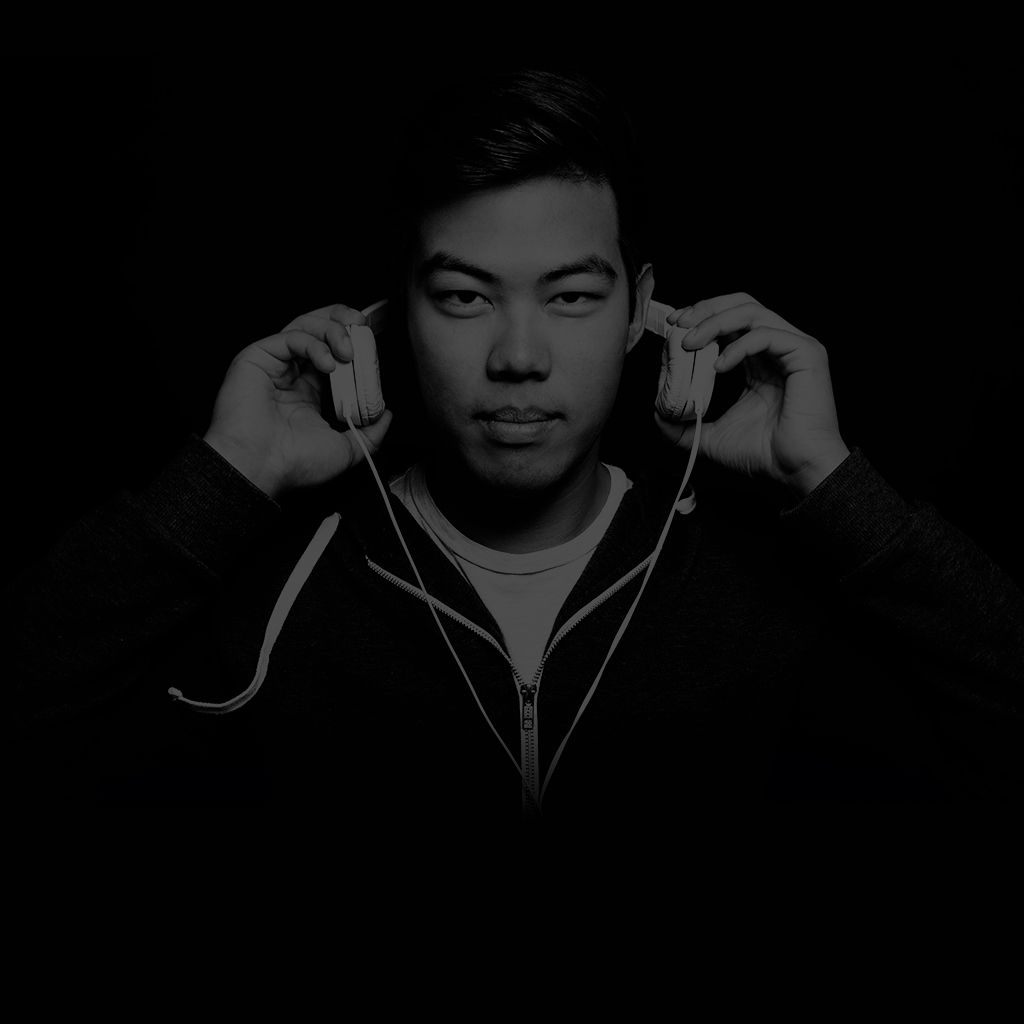
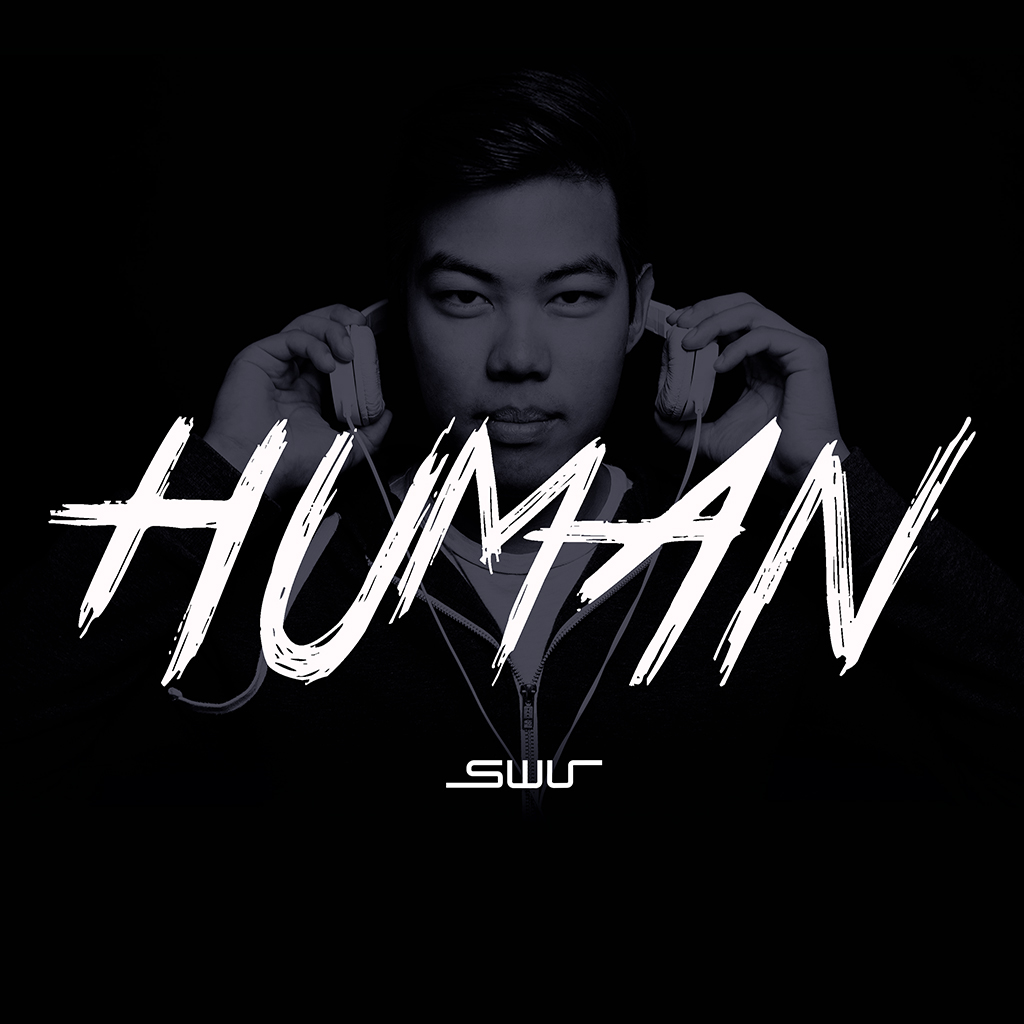
everything

Changed region(s): [[0.0312, 0.4062, 0.9688, 0.6875], [0.4375, 0.7188, 0.5938, 0.7812]]

diff --git a/media.html b/media.html
@@ -102,32 +102,20 @@
             <a href="#portfolioModal14" class="portfolio-link" data-toggle="modal">
                 <div class="pic4" ><img width="100%" src="pics/small/swu-human-cover.jpg"></div>
             </a>
-            <a href="#portfolioModal15" class="portfolio-link" data-toggle="modal">
-                <div class="pic4" ><img width="100%" src="pics/small/swu-human-cover1.jpg"></div>
-            </a>
             <a href="#portfolioModal16" class="portfolio-link" data-toggle="modal">
                 <div class="pic4" ><img width="100%" src="pics/small/swu-human-cover2.jpg"></div>
+            </a>
+            <a href="#portfolioModal15" class="portfolio-link" data-toggle="modal">
+                <div class="pic4" ><img width="100%" src="pics/small/swu-human-cover1.jpg"></div>
             </a>
             <a href="#portfolioModal17" class="portfolio-link" data-toggle="modal">
                 <div class="pic4" ><img width="100%" src="pics/small/swu-human-cover3.jpg"></div>
             </a>
-            <a href="#portfolioModal5" class="portfolio-link" data-toggle="modal">
-                <div class="pic4" ><img width="100%" src="pics/small/shirt-tie.jpg"></div>
+            <a href="#portfolioModal22" class="portfolio-link" data-toggle="modal">
+                <div class="pic3" ><img width="100%" src="pics/small/guitar.jpg"></div>
             </a>
-            <a href="#portfolioModal6" class="portfolio-link" data-toggle="modal">
-                <div class="pic4" ><img width="100%" src="pics/small/working.png"></div>
-            </a>
-            <a href="#portfolioModal12" class="portfolio-link" data-toggle="modal">
-                <div class="pic4" ><img width="100%" src="pics/small/confident.jpg"></div>
-            </a>   
-            <a href="#portfolioModal21" class="portfolio-link" data-toggle="modal">
-                <div class="pic4" ><img width="100%" src="pics/small/singing.png"></div>
-            </a>   
-            <a href="#portfolioModal7" class="portfolio-link" data-toggle="modal">
-                <div class="pic3" ><img width="100%" src="pics/small/scsday.jpg"></div>
-            </a>
-            <a href="#portfolioModal10" class="portfolio-link" data-toggle="modal">
-                <div class="pic3" ><img width="100%" src="pics/small/sexy.jpg"></div>
+            <a href="#portfolioModal25" class="portfolio-link" data-toggle="modal">
+                <div class="pic3" ><img width="100%" src="pics/small/tongue.jpg"></div>
             </a>  
             <a href="#portfolioModal20" class="portfolio-link" data-toggle="modal">
                 <div class="pic3" ><img width="100%" src="pics/small/red9.jpg"></div>
@@ -138,12 +126,33 @@
             <a href="#portfolioModal2" class="portfolio-link" data-toggle="modal">
                 <div class="pic4" ><img width="100%" src="pics/small/wine-cards-oranges.jpg"></div>
             </a>
-            <a href="#portfolioModal13" class="portfolio-link" data-toggle="modal">
-                <div class="pic4" ><img width="100%" src="pics/small/cocky.jpg"></div>
+            <a href="#portfolioModal10" class="portfolio-link" data-toggle="modal">
+                <div class="pic4" ><img width="100%" src="pics/small/sexy.jpg"></div>
             </a>
+            <a href="#portfolioModal24" class="portfolio-link" data-toggle="modal">
+                <div class="pic4" ><img width="100%" src="pics/small/studio-sing.jpg"></div>
+            </a>
+            <a href="#portfolioModal7" class="portfolio-link" data-toggle="modal">
+                <div class="pic3" ><img width="100%" src="pics/small/scsday.jpg"></div>
+            </a>
+            <a href="#portfolioModal23" class="portfolio-link" data-toggle="modal">
+                <div class="pic3" ><img width="100%" src="pics/small/hoodie-looking-out.jpg"></div>
+            </a>  
             <a href="#portfolioModal3" class="portfolio-link" data-toggle="modal">
-                <div class="pic4" ><img width="100%" src="pics/small/goofy.jpg"></div>
+                <div class="pic3" ><img width="100%" src="pics/small/goofy.jpg"></div>
+            </a> 
+            <a href="#portfolioModal5" class="portfolio-link" data-toggle="modal">
+                <div class="pic4" ><img width="100%" src="pics/small/shirt-tie.jpg"></div>
             </a>
+            <a href="#portfolioModal6" class="portfolio-link" data-toggle="modal">
+                <div class="pic4" ><img width="100%" src="pics/small/working.png"></div>
+            </a>
+            <a href="#portfolioModal12" class="portfolio-link" data-toggle="modal">
+                <div class="pic4" ><img width="100%" src="pics/small/blackt-confident.jpg"></div>
+            </a>   
+            <a href="#portfolioModal21" class="portfolio-link" data-toggle="modal">
+                <div class="pic4" ><img width="100%" src="pics/small/singing.png"></div>
+            </a>   
         </div>
     </div>
 
@@ -270,7 +279,7 @@
                 </div>
             </div>
         <div class="container big-pic text-center" data-dismiss="modal">
-            <img src="pics/confident.jpg" class="img-responsive img-centered" alt="">
+            <img src="pics/blackt-confident.jpg" class="img-responsive img-centered" alt="">
         </div>
     </div>
 
@@ -382,6 +391,54 @@
         </div>
     </div>
 
+    <div class="portfolio-modal modal fade" id="portfolioModal22" aria-hidden="true" data-dismiss="modal">
+            <div class="close-modal" data-dismiss="modal">
+                <div class="lr">
+                    <div class="rl">
+                    </div>
+                </div>
+            </div>
+        <div class="container big-pic text-center" data-dismiss="modal">
+            <img src="pics/guitar.jpg" class="img-responsive img-centered" alt="">
+        </div>
+    </div>
+
+    <div class="portfolio-modal modal fade" id="portfolioModal23" aria-hidden="true" data-dismiss="modal">
+            <div class="close-modal" data-dismiss="modal">
+                <div class="lr">
+                    <div class="rl">
+                    </div>
+                </div>
+            </div>
+        <div class="container big-pic text-center" data-dismiss="modal">
+            <img src="pics/hoodie-looking-out.jpg" class="img-responsive img-centered" alt="">
+        </div>
+    </div>
+
+    <div class="portfolio-modal modal fade" id="portfolioModal24" aria-hidden="true" data-dismiss="modal">
+            <div class="close-modal" data-dismiss="modal">
+                <div class="lr">
+                    <div class="rl">
+                    </div>
+                </div>
+            </div>
+        <div class="container big-pic text-center" data-dismiss="modal">
+            <img src="pics/studio-sing.jpg" class="img-responsive img-centered" alt="">
+        </div>
+    </div>
+
+    <div class="portfolio-modal modal fade" id="portfolioModal25" aria-hidden="true" data-dismiss="modal">
+            <div class="close-modal" data-dismiss="modal">
+                <div class="lr">
+                    <div class="rl">
+                    </div>
+                </div>
+            </div>
+        <div class="container big-pic text-center" data-dismiss="modal">
+            <img src="pics/tongue.jpg" class="img-responsive img-centered" alt="">
+        </div>
+    </div>
+
     <footer>
         <div class="container">
             <div class="row">
@@ -391,19 +448,16 @@
                         <a target="_blank" title="follow me on facebook" href="https://www.facebook.com/Swuofficial"><img alt="follow me on facebook" src="./img/facebook-icon.png" border=0></a>
                         
                         <!-- SPOTIFY LINK -->
-                        <a target="_blank" title="follow me on spotify" href=""><img alt="follow me on spotify" src="./img/spotify-icon.png" border=0></a>
+                        <a target="_blank" title="follow me on spotify" href="https://open.spotify.com/artist/4wu4raoQC1pNjFL1Qp2fQi"><img alt="follow me on spotify" src="./img/spotify-icon.png" border=0></a>
 
                         <!-- ITUNES LINK -->
-                        <a target="_blank" title="follow me on itunes" href=""><img alt="follow me on itunes" src="./img/itunes-icon.png" border=0></a>
+                        <a target="_blank" title="follow me on itunes" href="https://itunes.apple.com/us/album/id1096677964?app=itunes"><img alt="follow me on itunes" src="./img/itunes-icon.png" border=0></a>
 
                         <!-- SOUNDCLOUD LINK -->
                         <a target="_blank" title="follow me on soundcloud" href="https://soundcloud.com/stephenwu"><img alt="follow me on soundcloud" src="./img/soundcloud-icon.png" border=0></a>
 
-                        <!-- AMAZON MUSIC LINK -->
-                        <a target="_blank" title="follow me on amazon music" href=""><img alt="follow me on amazon music" src="./img/amazon-icon.png" border=0></a>
-
                         <!-- GOOGLE PLAY LINK -->
-                        <a target="_blank" title="follow me on google play" href=""><img alt="follow me on google play" src="./img/googleplay-icon.png" border=0></a>
+                        <a target="_blank" title="follow me on google play" href="https://play.google.com/store/music/album/Swu_Human?id=Bvo7yiv6yhlxel7xkcbznczldbq&hl=en#details-reviews"><img alt="follow me on google play" src="./img/googleplay-icon.png" border=0></a>
 
                         <!-- YOUTUBE LINK -->
                         <a target="_blank" title="follow me on youtube" href="https://www.youtube.com/channel/UCEDwKwLOQK3diDgbZYNso3g"><img alt="follow me on youtube" src="./img/youtube-icon.png" border=0></a>

diff --git a/about.html b/about.html
@@ -100,9 +100,9 @@
                 <div class="col-md-6">
                     <img class="img-responsive img-border-left" src="img/slide-2.jpg" alt="">
                 </div>
-                    <p>Hailing from The Golden State - San Francisco, CA - comes Swu, one of the industry's most versatile recording artists and producers. Growing up and living all around the world, Swu embodies the creative and open-mindedness of different cultures. In his first EP Human, he hopes bring to life emotions from the best parts of our lives to remind us that we are all human. He has stated that "music is a rare gift that crosses all language barriers and is universally understood. Each song captures an emotion and a story, and each story is from a part of my life." </p>
-                    <p>Swu's music career started in the 4th grade, when he won a songwriting competition. He used notation software to write an electronic beat, and didn't even know he incorporated advanced techniques such as polyrhythms, sus7 chords, and stereo imaging. Since then, Swu has picked up a myriad of different instruments, from the baritone, to drums, to guitar, and to voice. These were the first stepping stones to a lifetime career in music.</p>
-                    <p>From his musical background and studying computer science at Carnegie Mellon, Swu is able to synthesize unique sounds and write avant garde chord and note progressions. He uses Nyquist to synthesize his own sounds, Carnegie Mellon's studio to record voice, and Logic Pro to put it all together. Throughout his musical career, he has been able to perform weekly sets at Iron Horse, a local bar and grill, perform in spring fairs, carnivals, and concert halls, and found an annual charity concert with the Boy Scouts of America. Now, he is focused on creating and producing his own music with the Carnegie Mellon School of Music, IMO, and independent artists.</p>
+                    <p>Hailing from The Golden State - San Francisco, CA - comes Swu, one of the industry's most versatile recording artists and producers. Growing up and living all around the world, Swu embodies the creative and open-mindedness of different cultures. In his first EP Human, he hopes bring to life emotions from the best parts of our lives to remind us that we are all human. He stated that "each song captures an emotion and a story from a part of my life. It doesn't matter what language you speak, what culture you're from, or what race you are - everyone can relate and share these stories"</p> 
+                    <p>Swu's music career started in the 4th grade, when he found his father’s old guitar in the attic. He played on the guitar for hours that day and instantly fell in love with music. Since then, Swu has picked up a myriad of different instruments, from baritone, to drums, to piano, and to vocals, and won several battle of the bands, songwriting competitions, and talent shows. These were the first stepping stones to a lifetime passion in music.</p>
+                    <p>From his musical background and studying computer science at Carnegie Mellon, Swu is able to synthesize unique sounds and write chord progressions. He uses Nyquist to synthesize sounds from scratch, Carnegie Mellon's studio to record vocals, and Logic Pro to put it all together. Throughout his musical career, he has been able to perform weekly sets at Iron Horse, a local bar and grill, perform at spring fairs, carnivals, and concert halls, and found an annual charity concert with the Boy Scouts of America. Now, he is focused on creating and producing his own music with the Carnegie Mellon School of Music, IMO, and independent artists.</p>
                 <div class="clearfix"></div>
             </div>
         </div>
@@ -119,19 +119,16 @@
                         <a target="_blank" title="follow me on facebook" href="https://www.facebook.com/Swuofficial"><img alt="follow me on facebook" src="./img/facebook-icon.png" border=0></a>
                         
                         <!-- SPOTIFY LINK -->
-                        <a target="_blank" title="follow me on spotify" href=""><img alt="follow me on spotify" src="./img/spotify-icon.png" border=0></a>
+                        <a target="_blank" title="follow me on spotify" href="https://open.spotify.com/artist/4wu4raoQC1pNjFL1Qp2fQi"><img alt="follow me on spotify" src="./img/spotify-icon.png" border=0></a>
 
                         <!-- ITUNES LINK -->
-                        <a target="_blank" title="follow me on itunes" href=""><img alt="follow me on itunes" src="./img/itunes-icon.png" border=0></a>
+                        <a target="_blank" title="follow me on itunes" href="https://itunes.apple.com/us/album/id1096677964?app=itunes"><img alt="follow me on itunes" src="./img/itunes-icon.png" border=0></a>
 
                         <!-- SOUNDCLOUD LINK -->
                         <a target="_blank" title="follow me on soundcloud" href="https://soundcloud.com/stephenwu"><img alt="follow me on soundcloud" src="./img/soundcloud-icon.png" border=0></a>
 
-                        <!-- AMAZON MUSIC LINK -->
-                        <a target="_blank" title="follow me on amazon music" href=""><img alt="follow me on amazon music" src="./img/amazon-icon.png" border=0></a>
-
                         <!-- GOOGLE PLAY LINK -->
-                        <a target="_blank" title="follow me on google play" href=""><img alt="follow me on google play" src="./img/googleplay-icon.png" border=0></a>
+                        <a target="_blank" title="follow me on google play" href="https://play.google.com/store/music/album/Swu_Human?id=Bvo7yiv6yhlxel7xkcbznczldbq&hl=en#details-reviews"><img alt="follow me on google play" src="./img/googleplay-icon.png" border=0></a>
 
                         <!-- YOUTUBE LINK -->
                         <a target="_blank" title="follow me on youtube" href="https://www.youtube.com/channel/UCEDwKwLOQK3diDgbZYNso3g"><img alt="follow me on youtube" src="./img/youtube-icon.png" border=0></a>

diff --git a/partners.html b/partners.html
@@ -102,7 +102,7 @@
                 </div>
                 <div class="col-md-8">
                     <P> A <a href="http://nasm.arts-accredit.org/">National Association of Schools of Music</a> accredited school, the <a href="http://music.cmu.edu/" target="_blank">Carnegie Mellon School of Music</a> offers undergraduate and graduate study, as well as Pre-College Program in the summer. Students receive the highest level of individualized instruction from professional musicians and master teachers.</P>
-                    <p>Swu has worked with the president of Pittsburgh Digital Recording & Editing Company, <a href="https://www.cmu.edu/cas/people/schulz_riccardo.html">Riccardo Shulz</a>, Grammy Award-winning songwriter and producer, <a href="http://andersoland.com/">Aders Oland</a>, Columbia-signed rapper <a href="http://thefrzy.com/">FRZY</a>, and Music Tech masters student Steven Krenn in the studio, music production, and live performances. All in all, the CMU School of Music has been an integral part of Swu's musical career.</p>
+                    <p>Swu has worked with the president of Pittsburgh Digital Recording & Editing Company, <a href="https://www.cmu.edu/cas/people/schulz_riccardo.html">Riccardo Shulz</a>, Grammy Award-winning songwriter and producer, <a href="http://andersoland.com/">Aders Oland</a>, Columbia-signed rapper <a href="http://thefrzy.com/">FRZY</a>, and Music Tech masters student Steven Krenn in the studio, music production, and live performances. The CMU School of Music has been an integral part of Swu's musical career.</p>
                 </div>
                 <div class="clearfix"></div>
             </div>
@@ -120,7 +120,7 @@
                     <img class="img-responsive img-border img-left" src="img/imo-logo.png" alt="">
                 </div>
                 <div class="col-md-8">
-                    <p>The <a href="https://thebridge.cmu.edu/organization/IMO" target="_blank">Independent Musicians Organization (IMO)</a> is an organization dedicated to connecting and promoting the musicians on the Carnegie Mellon campus! They run an annual festival to showcase Pittsburgh and campus talent during Carnival Weekend and serve as a hub for musicians looking for opportunities to play music & collaborate.</p>
+                    <p>The <a href="https://thebridge.cmu.edu/organization/IMO" target="_blank">Independent Musicians Organization (IMO)</a> is an organization dedicated to connecting and promoting the musicians on the Carnegie Mellon campus. They run an annual festival to showcase Pittsburgh and campus talent during Carnival Weekend and serve as a hub for musicians looking for opportunities to play music & collaborate.</p>
                     <p></p>
                     <p>Swu has worked with IMO for years, writing and performing songs with many of their stellar musicians, including Varun Gadh and Ariana Mapua. They have collaborated at many popular college venues, such as Skibo Cafe, Sigma Nu, UC Jams, and Hack-a-song. </p>
                 </div>
@@ -178,19 +178,16 @@
                         <a target="_blank" title="follow me on facebook" href="https://www.facebook.com/Swuofficial"><img alt="follow me on facebook" src="./img/facebook-icon.png" border=0></a>
                         
                         <!-- SPOTIFY LINK -->
-                        <a target="_blank" title="follow me on spotify" href=""><img alt="follow me on spotify" src="./img/spotify-icon.png" border=0></a>
+                        <a target="_blank" title="follow me on spotify" href="https://open.spotify.com/artist/4wu4raoQC1pNjFL1Qp2fQi"><img alt="follow me on spotify" src="./img/spotify-icon.png" border=0></a>
 
                         <!-- ITUNES LINK -->
-                        <a target="_blank" title="follow me on itunes" href=""><img alt="follow me on itunes" src="./img/itunes-icon.png" border=0></a>
+                        <a target="_blank" title="follow me on itunes" href="https://itunes.apple.com/us/album/id1096677964?app=itunes"><img alt="follow me on itunes" src="./img/itunes-icon.png" border=0></a>
 
                         <!-- SOUNDCLOUD LINK -->
                         <a target="_blank" title="follow me on soundcloud" href="https://soundcloud.com/stephenwu"><img alt="follow me on soundcloud" src="./img/soundcloud-icon.png" border=0></a>
 
-                        <!-- AMAZON MUSIC LINK -->
-                        <a target="_blank" title="follow me on amazon music" href=""><img alt="follow me on amazon music" src="./img/amazon-icon.png" border=0></a>
-
                         <!-- GOOGLE PLAY LINK -->
-                        <a target="_blank" title="follow me on google play" href=""><img alt="follow me on google play" src="./img/googleplay-icon.png" border=0></a>
+                        <a target="_blank" title="follow me on google play" href="https://play.google.com/store/music/album/Swu_Human?id=Bvo7yiv6yhlxel7xkcbznczldbq&hl=en#details-reviews"><img alt="follow me on google play" src="./img/googleplay-icon.png" border=0></a>
 
                         <!-- YOUTUBE LINK -->
                         <a target="_blank" title="follow me on youtube" href="https://www.youtube.com/channel/UCEDwKwLOQK3diDgbZYNso3g"><img alt="follow me on youtube" src="./img/youtube-icon.png" border=0></a>

diff --git a/index.html b/index.html
@@ -101,22 +101,22 @@
     <div class="container">
         <div class="row">
             <div class="col-lg-12 text-center">
-                <img width="56%" src="img/swu-human-cover.png">
+                <img width="50%" src="img/swu-human-cover.png">
                 <h2><p>NEW EP HUMAN OUT NOW</p></h2>
 
-                <a href="https://itunes.apple.com/us/album/id1096677964?app=itunes"><img src="./img/icon-spotify.png"></a>
-                <a href="https://itunes.apple.com/us/album/id1096677964?app=itunes"><img src="./img/icon-itunes.png"></a>
-                <a href="https://itunes.apple.com/us/album/id1096677964?app=itunes"><img src="./img/icon-google.png"></a>
+                <a target="_blank" href="https://open.spotify.com/artist/4wu4raoQC1pNjFL1Qp2fQi"><img src="./img/icon-spotify.png"></a>
+                <a target="_blank" href="https://itunes.apple.com/us/album/id1096677964?app=itunes"><img src="./img/icon-itunes.png"></a>
+                <a target="_blank" href="https://play.google.com/store/music/album/Swu_Human?id=Bvo7yiv6yhlxel7xkcbznczldbq&hl=en#details-reviews"><img src="./img/icon-google.png"></a>
                 <!--<a href="https://itunes.apple.com/us/album/id1096677964?app=itunes"><img src="./img/icon-amazon.png"></a>-->
-                <a href="https://itunes.apple.com/us/album/id1096677964?app=itunes"><img src="./img/icon-soundcloud.png"></a>
+                <a target="_blank" href="https://soundcloud.com/stephenwu"><img src="./img/icon-soundcloud.png"></a>
             </div>
         </div>
         <br>
 
         <div class="row">
             <div class="box">
-                <div class="col-lg-4">
-                    <center><iframe src="https://embed.spotify.com/?uri=spotify%3Aartist%SWU" width="300" height="380" frameborder="0" allowtransparency="true"></iframe>
+                <div class="col-lg-4 text-center">
+                    <iframe src="https://embed.spotify.com/?uri=spotify:album:5xxDRiCLu7Y0lT84VkKOtn" width="300" height="380" frameborder="0" allowtransparency="true"></iframe>
                     </center>
                 </div>
                     
@@ -124,7 +124,9 @@
                     <hr>
                     <h2 class="intro-text text-center">Upcoming Events</h2>
                     <hr>
-
+                    <div class="col-lg-4"><p>[Mar 30]</p></div><div class="col-lg-8"><p>YouTube music channel Muzza features Swu's EP</p></div>
+                    <div class="col-lg-4"><p>[Apr 03]</p></div><div class="col-lg-8"><p>Tune into WRCT Radio Station for an exclusive interview with Swu</p></div>
+                    <div class="col-lg-4"><p>[TBD]</p></div><div class="col-lg-8"><p>EP launch party</p></div>
                 </div>
                 <div class="col-lg-4">
                     <hr>
@@ -157,19 +159,16 @@
                         <a target="_blank" title="follow me on facebook" href="https://www.facebook.com/Swuofficial"><img alt="follow me on facebook" src="./img/facebook-icon.png" border=0></a>
                         
                         <!-- SPOTIFY LINK -->
-                        <a target="_blank" title="follow me on spotify" href=""><img alt="follow me on spotify" src="./img/spotify-icon.png" border=0></a>
+                        <a target="_blank" title="follow me on spotify" href="https://open.spotify.com/artist/4wu4raoQC1pNjFL1Qp2fQi"><img alt="follow me on spotify" src="./img/spotify-icon.png" border=0></a>
 
                         <!-- ITUNES LINK -->
-                        <a target="_blank" title="follow me on itunes" href=""><img alt="follow me on itunes" src="./img/itunes-icon.png" border=0></a>
+                        <a target="_blank" title="follow me on itunes" href="https://itunes.apple.com/us/album/id1096677964?app=itunes"><img alt="follow me on itunes" src="./img/itunes-icon.png" border=0></a>
 
                         <!-- SOUNDCLOUD LINK -->
                         <a target="_blank" title="follow me on soundcloud" href="https://soundcloud.com/stephenwu"><img alt="follow me on soundcloud" src="./img/soundcloud-icon.png" border=0></a>
 
-                        <!-- AMAZON MUSIC LINK -->
-                        <a target="_blank" title="follow me on amazon music" href=""><img alt="follow me on amazon music" src="./img/amazon-icon.png" border=0></a>
-
                         <!-- GOOGLE PLAY LINK -->
-                        <a target="_blank" title="follow me on google play" href=""><img alt="follow me on google play" src="./img/googleplay-icon.png" border=0></a>
+                        <a target="_blank" title="follow me on google play" href="https://play.google.com/store/music/album/Swu_Human?id=Bvo7yiv6yhlxel7xkcbznczldbq&hl=en#details-reviews"><img alt="follow me on google play" src="./img/googleplay-icon.png" border=0></a>
 
                         <!-- YOUTUBE LINK -->
                         <a target="_blank" title="follow me on youtube" href="https://www.youtube.com/channel/UCEDwKwLOQK3diDgbZYNso3g"><img alt="follow me on youtube" src="./img/youtube-icon.png" border=0></a>

diff --git a/news.html b/news.html
@@ -114,7 +114,7 @@
                     </h2>
                     <hr>
                     <img class="img-responsive img-border img-left" src="img/hack-a-song.png" alt="">
-                    <p>Hack-a-Song is a 10 hour musical competition in which teams of 3-5 musicians write, arrange, record, and perform original music! On this day, dozens of teams will compose, write, edit, record, and finally perform original songs spanning a variety of genres. Out of the two awards of the event, "best lyrics" was given to Swu and his teammates for what the judges referred to as "meaningful" and "tasteful" lyrics.</p>
+                    <p>Hack-a-Song is a 10 hour musical competition in which teams of 3-5 musicians write, arrange, record, and perform original music. On this day, dozens of teams will compose, write, edit, record, and finally perform original songs spanning a variety of genres. Out of the two awards of the event, "best lyrics" was given to Swu and his teammates for what the judges referred to as "meaningful" and "tasteful" lyrics.</p>
                     <p>A huge thanks to <a href="https://thebridge.cmu.edu/organization/IMO" target="_blank"> Independent Mucisians Organization (IMO) </a> for organizing and conducting the event. Shout out to Ari, Christine, and Maegha for being co-songwriters. Shout out to Kid Afabs and the crew for showing support.</p>
                     <p align="right">Jan 16, 2016</p>
                 </div>
@@ -155,19 +155,16 @@
                         <a target="_blank" title="follow me on facebook" href="https://www.facebook.com/Swuofficial"><img alt="follow me on facebook" src="./img/facebook-icon.png" border=0></a>
                         
                         <!-- SPOTIFY LINK -->
-                        <a target="_blank" title="follow me on spotify" href=""><img alt="follow me on spotify" src="./img/spotify-icon.png" border=0></a>
+                        <a target="_blank" title="follow me on spotify" href="https://open.spotify.com/artist/4wu4raoQC1pNjFL1Qp2fQi"><img alt="follow me on spotify" src="./img/spotify-icon.png" border=0></a>
 
                         <!-- ITUNES LINK -->
-                        <a target="_blank" title="follow me on itunes" href=""><img alt="follow me on itunes" src="./img/itunes-icon.png" border=0></a>
+                        <a target="_blank" title="follow me on itunes" href="https://itunes.apple.com/us/album/id1096677964?app=itunes"><img alt="follow me on itunes" src="./img/itunes-icon.png" border=0></a>
 
                         <!-- SOUNDCLOUD LINK -->
                         <a target="_blank" title="follow me on soundcloud" href="https://soundcloud.com/stephenwu"><img alt="follow me on soundcloud" src="./img/soundcloud-icon.png" border=0></a>
 
-                        <!-- AMAZON MUSIC LINK -->
-                        <a target="_blank" title="follow me on amazon music" href=""><img alt="follow me on amazon music" src="./img/amazon-icon.png" border=0></a>
-
                         <!-- GOOGLE PLAY LINK -->
-                        <a target="_blank" title="follow me on google play" href=""><img alt="follow me on google play" src="./img/googleplay-icon.png" border=0></a>
+                        <a target="_blank" title="follow me on google play" href="https://play.google.com/store/music/album/Swu_Human?id=Bvo7yiv6yhlxel7xkcbznczldbq&hl=en#details-reviews"><img alt="follow me on google play" src="./img/googleplay-icon.png" border=0></a>
 
                         <!-- YOUTUBE LINK -->
                         <a target="_blank" title="follow me on youtube" href="https://www.youtube.com/channel/UCEDwKwLOQK3diDgbZYNso3g"><img alt="follow me on youtube" src="./img/youtube-icon.png" border=0></a>

diff --git a/contact.html b/contact.html
@@ -171,19 +171,16 @@
                         <a target="_blank" title="follow me on facebook" href="https://www.facebook.com/Swuofficial"><img alt="follow me on facebook" src="./img/facebook-icon.png" border=0></a>
                         
                         <!-- SPOTIFY LINK -->
-                        <a target="_blank" title="follow me on spotify" href=""><img alt="follow me on spotify" src="./img/spotify-icon.png" border=0></a>
+                        <a target="_blank" title="follow me on spotify" href="https://open.spotify.com/artist/4wu4raoQC1pNjFL1Qp2fQi"><img alt="follow me on spotify" src="./img/spotify-icon.png" border=0></a>
 
                         <!-- ITUNES LINK -->
-                        <a target="_blank" title="follow me on itunes" href=""><img alt="follow me on itunes" src="./img/itunes-icon.png" border=0></a>
+                        <a target="_blank" title="follow me on itunes" href="https://itunes.apple.com/us/album/id1096677964?app=itunes"><img alt="follow me on itunes" src="./img/itunes-icon.png" border=0></a>
 
                         <!-- SOUNDCLOUD LINK -->
                         <a target="_blank" title="follow me on soundcloud" href="https://soundcloud.com/stephenwu"><img alt="follow me on soundcloud" src="./img/soundcloud-icon.png" border=0></a>
 
-                        <!-- AMAZON MUSIC LINK -->
-                        <a target="_blank" title="follow me on amazon music" href=""><img alt="follow me on amazon music" src="./img/amazon-icon.png" border=0></a>
-
                         <!-- GOOGLE PLAY LINK -->
-                        <a target="_blank" title="follow me on google play" href=""><img alt="follow me on google play" src="./img/googleplay-icon.png" border=0></a>
+                        <a target="_blank" title="follow me on google play" href="https://play.google.com/store/music/album/Swu_Human?id=Bvo7yiv6yhlxel7xkcbznczldbq&hl=en#details-reviews"><img alt="follow me on google play" src="./img/googleplay-icon.png" border=0></a>
 
                         <!-- YOUTUBE LINK -->
                         <a target="_blank" title="follow me on youtube" href="https://www.youtube.com/channel/UCEDwKwLOQK3diDgbZYNso3g"><img alt="follow me on youtube" src="./img/youtube-icon.png" border=0></a>
